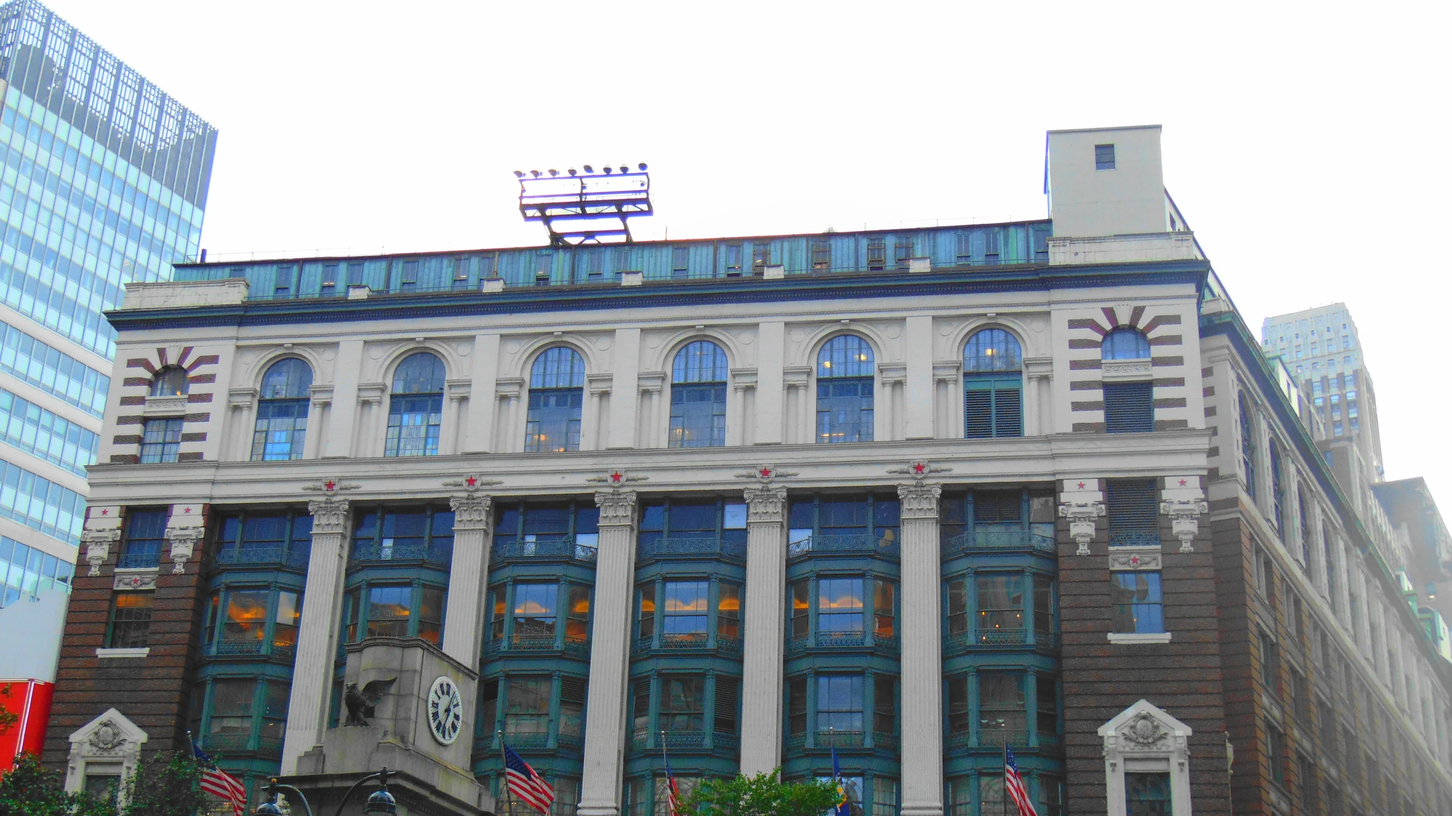
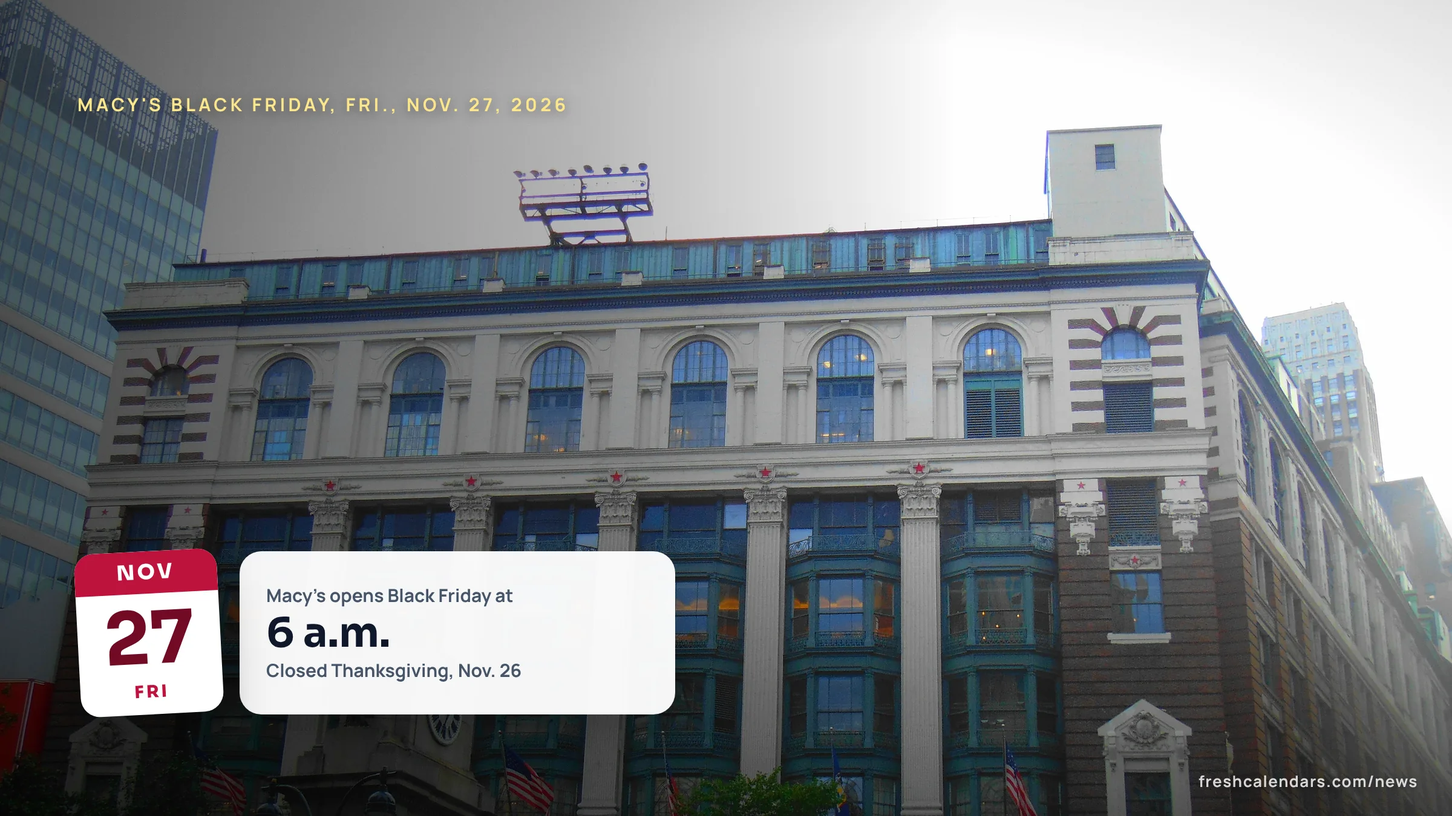
Black Friday and Cyber Monday update: interim
Claude-Session: https://claude.ai/code/session_01FjeiYS8veVExHHG2PytUqw

diff --git a/apps/news/src/content/articles/2026/11/macys-black-friday-2026-store-hours-sale-dates.md b/apps/news/src/content/articles/2026/11/macys-black-friday-2026-store-hours-sale-dates.md
@@ -1,0 +1,130 @@
+---
+title: "Macy's Black Friday 2026 Hours: Opens 6 a.m., Closed Thanksgiving"
+description: "Macy's stores are closed Thanksgiving, Nov. 26, and open 6 a.m. to 10 p.m. Black Friday, Nov. 27. Opening times by time zone and what is unconfirmed."
+type: news
+publishedAt: "2026-11-25T16:46:00-05:00"
+authors: [jessica-hartwell]
+category: retail-dates
+keywords: ["macy's black friday 2026 hours", "what time does macy's open black friday", "is macy's open on thanksgiving 2026", "macy's black friday 2026"]
+assets:
+  overlay: true
+  kicker: "Macy's Black Friday, Fri., Nov. 27, 2026"
+  date: "2026-11-27"
+  card: { top: "Macy's opens Black Friday at", big: "6 a.m.", bottom: "Closed Thanksgiving, Nov. 26" }
+  printable:
+    kit: fact-table
+    slug: macys-black-friday-2026-store-hours
+    group: macys-black-friday-2026
+    title: "Macy's Thanksgiving and Black Friday 2026 Hours"
+    subtitle: "Closed Thu., Nov. 26; open 6 a.m. to 10 p.m. local time Fri., Nov. 27"
+    note: "Source: TODAY.com, Macy's Thanksgiving and Black Friday Hours: What to Know for 2026, Nov. 25, 2026, quoting a Macy's spokesperson; Yahoo Shopping, Black Friday store hours 2026, updated Nov. 25, 2026. Hours may vary among stores."
+    description: "One-page list of Macy's Thanksgiving closure and Black Friday 2026 hours, with the opening times of other big chains for comparison."
+    alt: "Printable table of Macy's Thanksgiving and Black Friday 2026 store hours"
+    data:
+      columns:
+        - { key: "when", label: "Day and store" }
+        - { key: "hours", label: "Hours (local time)", align: "right" }
+      rows:
+        - { cells: { when: "Macy's, Thu., Nov. 26 (Thanksgiving)", hours: "Closed" }, src: 1, quote: "According to a Macy’s spokesperson, all Macy’s locations will be closed on Thursday, Nov. 26, in observance of the Thanksgiving holiday." }
+        - { cells: { when: "Macy's, Fri., Nov. 27 (opens)", hours: "6 a.m." }, src: 1, quote: "stores will reopen at 6 a.m. on Black Friday and remain open until 10 p.m." }
+        - { cells: { when: "Macy's, Fri., Nov. 27 (closes)", hours: "10 p.m." }, src: 1, quote: "stores will reopen at 6 a.m. on Black Friday and remain open until 10 p.m." }
+        - { cells: { when: "Kohl's and JCPenney, Fri., Nov. 27", hours: "5 a.m." }, src: 2, quote: "Kohl's and JCPenney open at 5 a.m. on Black Friday, Nov. 27." }
+        - { cells: { when: "Walmart, Target and Best Buy, Fri., Nov. 27", hours: "6 a.m." }, src: 2, quote: "Walmart, Target and Best Buy are all opening at 6 a.m." }
+      unconfirmed:
+        - { label: "Macy's Black Friday sale end date and Cyber Monday date", why: "Macy's pages blocked automated access on Nov. 25, 2026, and no newsroom we read gave them" }
+        - { label: "Hours at individual stores", why: "Both sources say hours may vary among stores" }
+hero:
+  src: ../../../../assets/news/macys-black-friday-2026-store-hours-sale-dates/macys-black-friday-2026-store-hours-sale-dates.webp
+  alt: "Macy's Herald Square flagship in Manhattan, for Macy's Black Friday 2026 hours"
+  caption: "File photo of the Macy's Herald Square flagship in Manhattan. Macy's told TODAY that all its stores close Thanksgiving and reopen at 6 a.m. Nov. 27."
+  credit: "Photo: JJBers / Wikimedia Commons, cropped"
+  license:
+    name: "CC BY-SA 4.0"
+    url: "https://creativecommons.org/licenses/by-sa/4.0"
+    source: "https://commons.wikimedia.org/wiki/File:Manhattan_-_Macy%27s_Herald_Square_-_20180808183834.jpg"
+    author: "JJBers"
+    authorUrl: "https://commons.wikimedia.org/wiki/User:JJBers"
+summary:
+  - "A Macy's spokesperson told TODAY.com on Nov. 25, 2026 that all Macy's stores are closed on Thursday, Nov. 26, for Thanksgiving."
+  - "Macy's stores reopen at 6 a.m. on Black Friday, Nov. 27, and stay open until 10 p.m., a 16-hour day; hours may vary among stores."
+  - "Because the hours are local, a 6 a.m. opening is 6 a.m. ET in New York, 7 a.m. ET in Chicago and 9 a.m. ET in Los Angeles, by our conversion."
+  - "Macy's Black Friday sale end date and Cyber Monday date could not be confirmed from a source we could read."
+faq:
+  - q: "What time does Macy's open on Black Friday 2026?"
+    a: "6 a.m. local time on Friday, Nov. 27, 2026, and it stays open until 10 p.m., a Macy's spokesperson told TODAY.com. Hours may vary among stores, so check the Macy's store directory."
+  - q: "Is Macy's open on Thanksgiving 2026?"
+    a: "No. A Macy's spokesperson told TODAY.com that all Macy's locations will be closed on Thursday, Nov. 26, in observance of Thanksgiving."
+  - q: "When does Macy's Black Friday sale end in 2026?"
+    a: "We could not confirm it. Macy's pages blocked automated access when we checked on Nov. 25, and the newsrooms we read gave store hours only. Check macys.com or the Macy's app."
+  - q: "When is Macy's Cyber Monday 2026?"
+    a: "Cyber Monday is Monday, Nov. 30, 2026. We could not confirm Macy's own Cyber Monday start date or offers from a source we could read."
+sources:
+  - title: "Macy's Thanksgiving and Black Friday Hours: What to Know for 2026"
+    url: "https://www.today.com/life/holidays/macys-thanksgiving-black-friday-hours-2026-rcna610048"
+    publisher: "TODAY.com (NBC News)"
+    date: "2026-11-25"
+  - title: "Black Friday store hours 2026: What time do Walmart, Target, Kohl's, Macy's, Best Buy, Costco open?"
+    url: "https://shopping.yahoo.com/deals/breaking-news/article/black-friday-store-hours-2026-what-time-do-walmart-target-kohls-macys-best-buy-costco-open-182611870.html"
+    publisher: "Yahoo Shopping"
+    date: "2026-11-25"
+internalLinks:
+  - href: "/november-calendars.html"
+    label: "November 2026 printable calendar"
+  - href: "/when-is/black-friday/"
+    label: "When is Black Friday?"
+  - href: "/when-is/thanksgiving/"
+    label: "When is Thanksgiving?"
+related: [black-friday-2026-store-hours-walmart-target-best-buy, when-does-black-friday-end-2026-sale-end-dates-by-store, macys-thanksgiving-day-parade-2026-start-time-route-tv-balloons]
+draft: false
+---
+
+**Macy's stores are closed on Thanksgiving, Thursday, Nov. 26, 2026, and reopen at 6 a.m. on Black Friday, Nov. 27, staying open until 10 p.m., a Macy's spokesperson told TODAY.com on Nov. 25.** Yahoo Shopping's store-hours roundup, updated the same day, lists the same Macy's hours: 6 a.m. to 10 p.m. Both say hours may vary among stores.
+
+That is 16 hours on Friday. It also means no Macy's store is open on the day of the Thanksgiving parade; the [Macy's Thanksgiving Day Parade guide](/news/macys-thanksgiving-day-parade-2026-start-time-route-tv-balloons/) has its start time, route and TV channels.
+
+## Macy's hours, Nov. 26 and 27
+
+| Day | Macy's hours | Source |
+|---|---|---|
+| Thu., Nov. 26 (Thanksgiving) | Closed, all locations | Macy's spokesperson to TODAY.com |
+| Fri., Nov. 27 (Black Friday) | 6 a.m. to 10 p.m. | Macy's spokesperson to TODAY.com; Yahoo Shopping |
+
+Macy's has not said when stores close on Thursday evening or whether any location differs. Because hours may vary among stores, confirm yours in the Macy's store directory before you drive.
+
+## Opening time by time zone
+
+Store hours are local, so the same 6 a.m. opening lands at different clock times across the country. If a store keeps the chain-wide 6 a.m. to 10 p.m. schedule, the opening and closing times look like this in Eastern Time (ET), by our conversion:
+
+| Store's time zone | Opens (local) | Opens (ET) | Closes (local) | Closes (ET) |
+|---|---|---|---|---|
+| Eastern (ET) | 6 a.m. | 6 a.m. | 10 p.m. | 10 p.m. |
+| Central (CT) | 6 a.m. | 7 a.m. | 10 p.m. | 11 p.m. |
+| Mountain (MT) | 6 a.m. | 8 a.m. | 10 p.m. | Midnight, Sat., Nov. 28 |
+| Pacific (PT) | 6 a.m. | 9 a.m. | 10 p.m. | 1 a.m., Sat., Nov. 28 |
+| Hawaii | 6 a.m. | 11 a.m. | 10 p.m. | 3 a.m., Sat., Nov. 28 |
+
+Use the local column to plan your trip. The ET column is for readers who follow Black Friday news on an Eastern clock.
+
+## How Macy's compares with other chains
+
+Yahoo Shopping's roundup, updated Nov. 25, shows where 6 a.m. sits in the Black Friday lineup:
+
+| Opens Black Friday | Stores |
+|---|---|
+| 5 a.m. | Kohl's, JCPenney |
+| 6 a.m. | Macy's, Walmart, Target, Best Buy, Dick's Sporting Goods |
+
+Yahoo lists Macy's closing time as 10 p.m., the same as Best Buy and Dick's at many stores. Our [Black Friday store hours guide](/news/black-friday-2026-store-hours-walmart-target-best-buy/) covers Walmart, Target, Best Buy and the rest in more detail.
+
+## What Macy's has not confirmed
+
+- **Sale end date.** We could not read Macy's own Black Friday pages: macys.com returned an access-denied page to an automated request on Nov. 25, and we did not work around it. The newsrooms above gave store hours only. Check macys.com or the Macy's app for when the sale ends; our [sale end dates by store](/news/when-does-black-friday-end-2026-sale-end-dates-by-store/) page lists the chains that have published them.
+- **Cyber Monday.** The calendar date is Monday, Nov. 30, 2026, but we have no Macy's start date or offer list from a source we could read.
+- **Doorbusters and giveaways.** Neither source lists in-store doorbusters or free gifts, so none are included here.
+- **Individual stores.** Both sources say hours may vary among stores.
+
+## Free printable
+
+The one-page printable lists the Thanksgiving closure, the Friday hours and the 5 a.m. and 6 a.m. openings of the other chains from the table above. Put it beside the [November 2026 printable calendar](/november-calendars.html) and mark Thursday, Nov. 26 and Friday, Nov. 27. For the date itself, see [when is Black Friday](/when-is/black-friday/) and [when is Thanksgiving](/when-is/thanksgiving/).
+
+Sources: TODAY.com, Nov. 25, 2026, quoting a Macy's spokesperson; Yahoo Shopping, updated Nov. 25, 2026.

diff --git a/apps/news/src/content/articles/2026/11/epic-games-store-black-friday-sale-2026-november-17-december-1.md b/apps/news/src/content/articles/2026/11/epic-games-store-black-friday-sale-2026-november-17-december-1.md
@@ -1,9 +1,9 @@
 ---
 title: "Epic Games Store Black Friday Sale 2026: Nov. 17 to Dec. 1"
-description: "Epic's Black Friday sale for Premium Editions runs Nov. 17 to Dec. 1. Also the Holiday Sale dates, the Nov. 19 free games and a printable sale calendar."
+description: "Epic's Black Friday sale for Premium Editions runs Nov. 17 to Dec. 1. Also the Holiday Sale dates, the free games and a printable sale calendar."
 type: news
 publishedAt: "2026-11-18T06:10:00-05:00"
-updatedAt: "2026-11-18T06:10:00-05:00"
+updatedAt: "2026-11-25T16:50:00-05:00"
 authors: [jessica-hartwell]
 category: gaming-tech
 keywords: ["epic games black friday sale 2026", "epic games store black friday 2026 end date", "epic games holiday sale 2026", "epic free games november 2026"]
@@ -18,8 +18,8 @@ assets:
     group: epic-games-store-2026
     title: "Epic Games Store Sale Calendar 2026"
     subtitle: "Black Friday sale, Epic Savings, free games and the Holiday Sale, Nov. 2026 to Jan. 2027"
-    note: "Source: Epic Games, 2026 Q4 Promotional Guide on the Unreal Engine forums (Aug. 24, 2026); free-game dates from Worthplaying and Clouddosage (Nov. 12, 2026). Epic gives no start or end hour in the guide."
-    description: "One-page Epic Games Store sale calendar for Nov. 2026 to Jan. 2027: Black Friday, Epic Savings, the Nov. 19 free games and the Holiday Sale, with weekdays."
+    note: "Source: Epic Games, 2026 Q4 Promotional Guide on the Unreal Engine forums (Aug. 24, 2026); free-game dates from Player.One and GamerGuru. Epic gives no start or end hour in the guide."
+    description: "One-page Epic Games Store sale calendar for Nov. 2026 to Jan. 2027: Black Friday, Epic Savings, the free games and the Holiday Sale, with weekdays."
     alt: "Printable Epic Games Store sale calendar 2026 listing the Black Friday sale, Epic Savings, free games and the Holiday Sale by date"
     data:
       pick: false
@@ -27,8 +27,9 @@ assets:
       events:
         - { date: "2026-11-12", time: "TBA", title: "Epic Savings: Nov starts", detail: "Runs to Nov. 26, 14 days", airing: live, src: 1, quote: "November 12 - 26 | 14 Days" }
         - { date: "2026-11-17", time: "TBA", title: "Black Friday: Premium Editions Sale starts", detail: "Runs to Dec. 1, 14 days", airing: live, src: 1, quote: "November 17 - December 1 | 14 Days" }
-        - { date: "2026-11-19", time: "TBA", title: "Free games change", detail: "Alien: Isolation and Mark of the Deep free to Nov. 26", airing: live, src: 5, quote: "gratis starting November 19 until November 26, 2026" }
-        - { date: "2026-11-26", time: "TBA", title: "Epic Savings: Nov ends", detail: "Free games change again, next pair not announced", airing: live, src: 1, quote: "November 12 - 26 | 14 Days" }
+        - { date: "2026-11-19", time: "TBA", title: "Free game: Mark of the Deep", detail: "Free to Nov. 26 at 8 a.m. PT", airing: live, src: 8, quote: "began on November 19 and runs until November 26 at 8 AM Pacific Time" }
+        - { date: "2026-11-26", time: "TBA", title: "Epic Savings: Nov ends", detail: "Runs from Nov. 12, 14 days", airing: live, src: 1, quote: "November 12 - 26 | 14 Days" }
+        - { date: "2026-11-26", time: "TBA", title: "New free games start", detail: "Bread & Fred, Firestone bundle, to Dec. 3", airing: live, src: 9, quote: "from Thursday 26 November 2026 at 4pm GMT / 8am PT until Thursday 3 December" }
         - { date: "2026-12-01", time: "TBA", title: "Black Friday sale last day", detail: "Premium Editions Sale ends", airing: live, src: 1, quote: "November 17 - December 1 | 14 Days" }
         - { date: "2026-12-10", time: "TBA", title: "Holiday Sale starts", detail: "Base games and add-ons, runs to Jan. 7", airing: live, src: 1, quote: "December 10 - January 7 | 28 Days" }
         - { date: "2027-01-07", time: "TBA", title: "Holiday Sale ends", detail: "Last day of Epic's Q4 promotions", airing: live, src: 1, quote: "December 10 - January 7 | 28 Days" }
@@ -52,7 +53,7 @@ hero:
 summary:
   - "Epic Games' fourth-quarter promotion guide lists the Epic Games Store Black Friday sale from Nov. 17 to Dec. 1, 2026, a sale \"focused exclusively on Premium Editions\"."
   - "Epic's guide lists the Holiday Sale from Dec. 10, 2026, to Jan. 7, 2027, so no sale is listed for Dec. 2 to Dec. 9."
-  - "Alien: Isolation and Mark of the Deep are reported free from Nov. 19 to Nov. 26, 2026; the games after that are not yet announced."
+  - "Mark of the Deep is free from Nov. 19 to Nov. 26, 2026 at 8 a.m. PT; Alien: Isolation was listed but pulled. Bread & Fred and a Firestone bundle follow, free to Dec. 3."
   - "The guide gives no start or end hour, and Epic has not announced a 2026 coupon rate."
 faq:
   - q: "What time does the Epic Games Store Black Friday sale start on Nov. 17?"
@@ -60,14 +61,14 @@ faq:
   - q: "Is there an Epic Coupon in the 2026 Black Friday sale?"
     a: "Not announced. No 2026 coupon or Epic Rewards rate appears in the guide or in the reports we checked."
   - q: "Will Epic give away mystery games in December 2026?"
-    a: "Epic has not announced any. The only free games with reported dates are Alien: Isolation and Mark of the Deep, Nov. 19 to Nov. 26."
+    a: "Epic has not announced any. Player.One and GamerGuru report Mark of the Deep free until Nov. 26 at 8 a.m. PT, then Bread & Fred and a Firestone bundle from Nov. 26 to Dec. 3."
   - q: "Does the Black Friday sale include every game?"
     a: "Epic's guide says the sale is focused exclusively on Premium Editions, such as Deluxe, Gold, Premium or similar versions. The Holiday Sale covers base games and downloadable content (DLC)."
 sources:
   - title: "2026 Q4 Promotional Guide || EGS Promotions"
     url: "https://forums.unrealengine.com/t/2026-q4-promotional-guide-egs-promotions/2746185"
     publisher: "Epic Games (Unreal Engine forums)"
-    date: "2026-08-24"
+    date: "2026-11-25"
   - title: "Black Friday gaming deals 2026"
     url: "https://games.gg/news/black-friday-gaming-deals-2026/"
     publisher: "games.gg"
@@ -92,6 +93,14 @@ sources:
     url: "https://partner.steamgames.com/doc/marketing/upcoming_events"
     publisher: "Valve (Steamworks Documentation)"
     date: "2026-11-14"
+  - title: "Epic Games Reveals New Free Game This Week, Teases 2 More for Next Week: 'Mark of the Deep' and More"
+    url: "https://www.player.one/epic-games-reveals-new-free-game-this-week-teases-2-more-next-week-mark-deep-more-164549"
+    publisher: "Player.One"
+    date: "2026-11-25"
+  - title: "Epic free games for 26 November-3 December 2026"
+    url: "https://gamerguru.net/pc-games/epic-games-store-free-games"
+    publisher: "GamerGuru"
+    date: "2026-11-25"
 internalLinks:
   - href: "/november-calendars.html"
     label: "November 2026 printable calendar"
@@ -128,9 +137,11 @@ The guide's lengths are the gaps between the dates. The Black Friday sale spans 
 
 Yes, on Epic's schedule. The Black Friday sale ends Tue., Dec. 1 and the Holiday Sale starts Thu., Dec. 10, so the guide lists no sale from Wed., Dec. 2 to Wed., Dec. 9, which is 8 days. The Epic Savings: Nov promotion and the Black Friday sale overlap from Nov. 17 to Nov. 26, 10 days. The guide does not say how the two interact on a given game.
 
-## What are the Epic free games for Nov. 19, 2026?
+## What are the Epic free games for Nov. 19 and Nov. 26, 2026?
 
-Worthplaying and Clouddosage, both on Nov. 12, 2026, report Alien: Isolation and Mark of the Deep free from Nov. 19 to Nov. 26, 2026. Worthplaying wrote "gratis starting November 19 until November 26, 2026." The free games after Nov. 26 are not yet announced. Epic has also not announced mystery free games for December, and no dates are given here.
+Worthplaying and Clouddosage listed Alien: Isolation and Mark of the Deep as the free games for Nov. 19 to Nov. 26, 2026. Player.One and GamerGuru report that Alien: Isolation was pulled and shows a paid price, so Mark of the Deep is the only free PC game that week. Player.One wrote that the round "began on November 19 and runs until November 26 at 8 AM Pacific Time."
+
+Next come Bread & Fred and a Firestone bundle, free from Thursday, Nov. 26 at 8 a.m. PT to Thursday, Dec. 3, according to Player.One and GamerGuru. Firestone is an in-game bundle for players who log in through Epic. Epic has not announced mystery free games for December, and no dates are given here.
 
 ## How does the Epic sale compare with Steam, Xbox and PlayStation?
 
@@ -151,7 +162,7 @@ Epic has not announced a 2026 coupon or Epic Rewards rate, the Holiday Sale hour
 
 ## Print the Epic Games Store sale calendar
 
-The printable lists seven dates on one US Letter page: the Epic Savings and Black Friday starts, the Nov. 19 free games, the Nov. 26 end of Epic Savings, the Dec. 1 last day, and the Dec. 10 and Jan. 7 Holiday Sale dates, with lines for games to buy. Pair it with our [November 2026 printable calendar](/november-calendars.html) and [December 2026 printable calendar](/december-calendars.html).
+The printable lists eight dates on one US Letter page: the Epic Savings and Black Friday starts, the Mark of the Deep free game from Nov. 19, the Nov. 26 end of Epic Savings, the Nov. 26 start of the Bread & Fred and Firestone offers, the Dec. 1 last day, and the Dec. 10 and Jan. 7 Holiday Sale dates, with lines for games to buy. Pair it with our [November 2026 printable calendar](/november-calendars.html) and [December 2026 printable calendar](/december-calendars.html).
 
 ## Where the Epic sale dates come from
 

diff --git a/apps/news/src/content/articles/2026/10/black-friday-2026-uk-date-27-november-amazon-uk-sale-dates.md b/apps/news/src/content/articles/2026/10/black-friday-2026-uk-date-27-november-amazon-uk-sale-dates.md
@@ -4,7 +4,7 @@ description: "Black Friday 2026 UK is Friday, 27 November. Amazon UK's Black Fri
 type: news
 dateline: "London"
 publishedAt: "2026-10-28T03:43:00-04:00"
-updatedAt: "2026-11-19T01:42:00-05:00"
+updatedAt: "2026-11-25T16:50:00-05:00"
 authors: [jessica-hartwell]
 category: retail-dates
 keywords: ["when is Black Friday 2026 UK", "Black Friday 2026 UK date", "Amazon Black Friday 2026 UK", "Cyber Monday 2026 UK"]
@@ -21,14 +21,14 @@ hero:
     authorUrl: "https://www.geograph.org.uk/profile/43806"
 summary:
   - "Black Friday 2026 is Friday, 27 November in the UK, the day after US Thanksgiving (Thursday, 26 November). Cyber Monday is Monday, 30 November."
-  - "Amazon UK says its Black Friday Week runs 19-30 November 2026, 12 days counting both ends, starting today, Thursday, 19 November; Amazon Devices deals started 16 November. Argos, Currys, John Lewis, Very, Boots, Tesco, Asda and M&S had not announced 2026 dates as of 12 November 2026."
+  - "Amazon UK says its Black Friday Week runs 19-30 November 2026, 12 days counting both ends, which started on Thursday, 19 November. Argos, Currys, John Lewis, Very, Boots, Tesco, Asda and M&S had not announced 2026 dates as of 12 November 2026."
   - "Amazon UK started Black Friday Week on Thursday, 21 November in 2024 and Thursday, 20 November in 2025, and announced the dates on 8 and 13 November. In 2026 the announcement came on 10 November."
   - "UK law gives a 14-day cancellation period for online orders from the day goods arrive: an item delivered on Saturday, 28 November can be cancelled until Saturday, 12 December."
 faq:
   - q: "When is Black Friday 2026 in the UK?"
     a: "Friday, 27 November 2026. It is the day after US Thanksgiving, which is Thursday, 26 November. Cyber Monday is Monday, 30 November."
   - q: "When does Amazon UK Black Friday 2026 start?"
-    a: "Today, Thursday, 19 November 2026. Amazon UK says Black Friday Week runs 19-30 November, and the page was updated on 10 November 2026. Amazon Devices deals started earlier, on 16 November. In 2025 the week ran from 20 November until 1 December."
+    a: "Thursday, 19 November 2026. Amazon UK says Black Friday Week runs 19-30 November, and its guide was updated on 19 November 2026. In 2025 the week ran from 20 November until 1 December."
   - q: "How long do you have to cancel an online order in the UK?"
     a: "The Consumer Contracts Regulations 2013 give 14 days. For goods bought online the period ends 14 days after the day the goods come into your possession."
   - q: "Have UK stores announced Christmas return extensions for 2026?"
@@ -37,7 +37,7 @@ sources:
   - title: "Amazon's Black Friday Week: Here's everything you need to know about Black Friday and Cyber Monday 2026"
     url: "https://www.aboutamazon.co.uk/news/retail/black-friday-everything-you-need-to-know"
     publisher: "Amazon UK"
-    date: "2026-11-10"
+    date: "2026-11-25"
   - title: "How do I cancel an online order?"
     url: "https://www.which.co.uk/consumer-rights/advice/how-do-i-cancel-an-online-order"
     publisher: "Which?"
@@ -84,25 +84,21 @@ assets:
       target: { date: "2026-11-30", label: "Cyber Monday" }
       columns: ["Amazon UK"]
       rows:
-        - { date: "2026-11-16", cells: { "Amazon UK": "Amazon Devices deals started" }, src: 1, quote: "From 16 November, enjoy savings on a selection of Amazon Devices, including Echo, Fire TV Stick, Ember smart TVs, Kindle, Ring and Blink, with Amazon Alexa Tablets from 18 November." }
-        - { date: "2026-11-18", cells: { "Amazon UK": "Alexa Tablets deals started" }, src: 1, quote: "From 16 November, enjoy savings on a selection of Amazon Devices, including Echo, Fire TV Stick, Ember smart TVs, Kindle, Ring and Blink, with Amazon Alexa Tablets from 18 November." }
-        - { date: "2026-11-19", cells: { "Amazon UK": "Black Friday Week starts" }, src: 1, quote: "Amazon's UK Black Friday Week is returning from 19–30 November" }
+        - { date: "2026-11-19", cells: { "Amazon UK": "Black Friday Week started" }, src: 1, quote: "Amazon’s UK Black Friday Week 2026 returns from 19–30 November" }
         - { date: "2026-11-27", cells: { "Amazon UK": "Black Friday" }, src: 1 }
-        - { date: "2026-11-30", cells: { "Amazon UK": "Black Friday Week ends" }, src: 1, quote: "Amazon's UK Black Friday Week is returning from 19–30 November" }
+        - { date: "2026-11-30", cells: { "Amazon UK": "Black Friday Week ends" }, src: 1, quote: "Amazon’s UK Black Friday Week 2026 returns from 19–30 November" }
       unconfirmed:
         - { label: "Argos, Currys, John Lewis, Very, Boots, Tesco, Asda and M&S dates", why: "Not announced as of 12 November 2026" }
-    note: "Source: Amazon UK (aboutamazon.co.uk, 10 Nov 2026)."
+    note: "Source: Amazon UK (aboutamazon.co.uk, 19 Nov 2026)."
     description: "One-page Black Friday 2026 UK planner with the Amazon UK Black Friday Week dates, Black Friday and Cyber Monday."
     alt: "Printable Black Friday 2026 UK shopping planner with Amazon UK sale dates"
 ---
 
-<p class="callout"><b>Checked 12 November 2026.</b> Amazon UK has confirmed its dates. We will add other retailers when they announce 2026 dates.</p>
-
-**Black Friday 2026 is Friday, 27 November 2026 in the United Kingdom (UK), the day after United States (US) Thanksgiving (Thursday, 26 November), and Cyber Monday is Monday, 30 November; Amazon UK says its Black Friday Week runs 19-30 November 2026, starting today, Thursday, 19 November.** Its Black Friday guide, updated on 10 November 2026, says: "Amazon's UK Black Friday Week is returning from 19–30 November." For the plain date answer, see [when Black Friday falls](/when-is/black-friday/). A free [UK shopping planner](#downloads) is below.
+**Black Friday 2026 is Friday, 27 November 2026 in the United Kingdom (UK), the day after United States (US) Thanksgiving (Thursday, 26 November), and Cyber Monday is Monday, 30 November; Amazon UK says its Black Friday Week runs 19-30 November 2026, which started on Thursday, 19 November.** Its Black Friday guide, updated on 19 November 2026, says: "Amazon’s UK Black Friday Week 2026 returns from 19–30 November." For the plain date answer, see [when Black Friday falls](/when-is/black-friday/). A free [UK shopping planner](#downloads) is below.
 
 ## When does Amazon UK Black Friday 2026 start?
 
-Today, Thursday, 19 November 2026, and it runs until Monday, 30 November: 12 days counting both ends (our computation). Amazon UK says its Black Friday Week "is returning from 19–30 November". Amazon Devices deals started earlier: "From 16 November, enjoy savings on a selection of Amazon Devices, including Echo, Fire TV Stick, Ember smart TVs, Kindle, Ring and Blink, with Amazon Alexa Tablets from 18 November." The UK page gives no start or end clock times, so none are listed here.
+Thursday, 19 November 2026, and it runs until Monday, 30 November: 12 days counting both ends (our computation). Amazon UK says its Black Friday Week "returns from 19–30 November". The UK page gives no start or end clock times, so none are listed here.
 
 Argos, Currys, John Lewis, Very, Boots, Tesco, Asda and M&S had not announced 2026 Black Friday dates as of 12 November 2026, and none had announced a 2026 Christmas return extension. We will update this page as they do.
 
@@ -128,12 +124,10 @@ Yes. In 2024 and 2025 Amazon UK began Black Friday Week on the Thursday eight da
 
 | Date | What | Status |
 |---|---|---|
-| Mon. 16 Nov 2026 | Amazon Devices deals started (Echo, Fire TV Stick, Kindle, Ring, Blink) | Amazon UK, 10 Nov 2026 |
-| Wed. 18 Nov 2026 | Amazon Alexa Tablets deals started | Amazon UK, 10 Nov 2026 |
-| Thu. 19 Nov 2026 | Amazon UK Black Friday Week starts today | Amazon UK, 10 Nov 2026 |
+| Thu. 19 Nov 2026 | Amazon UK Black Friday Week started | Amazon UK, 19 Nov 2026 |
 | Fri. 27 Nov 2026 | Black Friday | Fixed by the calendar |
 | Sat. 28 Nov 2026 | Example: an item delivered this day | Cancel until Sat. 12 Dec |
-| Mon. 30 Nov 2026 | Cyber Monday and last day of Amazon UK Black Friday Week | Amazon UK, 10 Nov 2026 |
+| Mon. 30 Nov 2026 | Cyber Monday and last day of Amazon UK Black Friday Week | Amazon UK, 19 Nov 2026 |
 
 The [November 2026 printable calendar](/november-calendars.html) shows the whole month. Retailers beyond Amazon are listed above as not yet announced as of 12 November 2026; for the US, see our [Black Friday 2026 ad tracker for Walmart, Target and Best Buy](/news/black-friday-2026-ad-tracker-walmart-target-best-buy/). Another big shopping date in the same month is covered in [Singles Day on 11 November](/news/singles-day-2026-november-11-11-11-sale-dates/).
 

diff --git a/apps/news/src/content/articles/2026/11/dicks-sporting-goods-black-friday-2026-deals-november-22-hours.md b/apps/news/src/content/articles/2026/11/dicks-sporting-goods-black-friday-2026-deals-november-22-hours.md
@@ -2,6 +2,7 @@
 title: "Dick's Black Friday 2026: Deals Nov. 22-Dec. 5, Doors at 6 a.m."
 description: "Dick's Black Friday 2026 deals run Nov. 22 to Dec. 5; doors open 6 a.m. Nov. 27. Day-by-day timeline, Golf Galaxy hours, 2025 comparison, printable."
 type: news
+updatedAt: "2026-11-25T16:50:00-05:00"
 publishedAt: "2026-11-14T20:45:00-05:00"
 authors: [jessica-hartwell]
 category: retail-dates
@@ -29,7 +30,7 @@ assets:
         - { name: "Golf Galaxy, Black Friday", status: limited, detail: "Open 7 a.m. to 8 p.m. local time", src: 3, quote: "Stores will open on Black Friday at 7 a.m. and close at 8 p.m. local time." }
         - { name: "dicks.com and app", status: open, detail: "Shop 24/7, including Thanksgiving Day", src: 1, quote: "Athletes can shop 24/7 at DICKS.com" }
       tasks:
-        - { daysBefore: 4, task: "Sale starts Sun., Nov. 22: browse deals online" }
+        - { daysBefore: 4, task: "Sale began Sunday, Nov. 22 and ends Saturday, Dec. 5" }
         - { daysBefore: 1, task: "Check your store page for Black Friday hours" }
         - { daysBefore: 0, task: "Thanksgiving: stores closed; Black Friday doors open at 6 a.m." }
       fill: ["Deals I want", "Store hours I checked", "Price match receipts"]
@@ -46,7 +47,7 @@ hero:
     source: "https://commons.wikimedia.org/wiki/File:Flight_Club_Wall_of_Shoes_New_York_City_2011.jpg"
     author: "Jaysin Trevino"
 summary:
-  - "Dick's Sporting Goods says its 2026 holiday deals are valid Nov. 22 to Dec. 5, a 14-day run that starts five days before Black Friday."
+  - "Dick's Sporting Goods says its 2026 holiday deals are valid Nov. 22 to Dec. 5, a 14-day run that began five days before Black Friday."
   - "All Dick's locations are closed on Thanksgiving Day, Nov. 26, and doors open on Black Friday, Nov. 27, at 6 a.m. local time; the closing time is not announced."
   - "Golf Galaxy stores open at 7 a.m. and close at 8 p.m. on Black Friday, with a first-ever Pick a Tag. Win Some Swag. giveaway for the first 30 participants."
   - "Dick's Deal Days run Dec. 6 to 11 on dicks.com and the app, for ScoreCard loyalty members and app users."
@@ -65,7 +66,7 @@ sources:
   - title: "DICK'S Sporting Goods Announces 2026 Holiday Deals, Gift Shop and Black Friday Hours"
     url: "https://www.prnewswire.com/news-releases/dicks-sporting-goods-announces-2026-holiday-deals-gift-shop-and-black-friday-hours-302934896.html"
     publisher: "DICK'S Sporting Goods via PR Newswire"
-    date: "2026-11-10"
+    date: "2026-11-25"
   - title: "DICK'S Sporting Goods, Inc. to Hire Over 11,000 Seasonal Teammates for the 2026 Holiday Shopping Season"
     url: "https://www.prnewswire.com/news-releases/dicks-sporting-goods-inc-to-hire-over-11-000-seasonal-teammates-for-the-2026-holiday-shopping-season-302908795.html"
     publisher: "DICK'S Sporting Goods via PR Newswire"
@@ -73,7 +74,7 @@ sources:
   - title: "Golf Galaxy Kicks Off Black Friday with First-Ever Pick a Tag. Win Some Swag. Giveaway Event"
     url: "https://www.prnewswire.com/news-releases/golf-galaxy-kicks-off-black-friday-with-first-ever-pick-a-tag-win-some-swag-giveaway-event-302934953.html"
     publisher: "Golf Galaxy via PR Newswire"
-    date: "2026-11-10"
+    date: "2026-11-25"
   - title: "DICK'S Sporting Goods Announces 2025 Holiday Deals, Gift Guide and Black Friday Hours"
     url: "https://www.prnewswire.com/news-releases/dicks-sporting-goods-announces-2025-holiday-deals-gift-guide-and-black-friday-hours-302614586.html"
     publisher: "DICK'S Sporting Goods via PR Newswire"
@@ -104,7 +105,7 @@ draft: false
 
 | Date | Day | What Dick's and Golf Galaxy published |
 |---|---|---|
-| Nov. 22, 2026 | Sunday | Holiday deals begin |
+| Nov. 22, 2026 | Sunday | Holiday deals began |
 | Nov. 26, 2026 | Thursday | Thanksgiving: all Dick's stores closed; dicks.com open |
 | Nov. 27, 2026 | Friday | Black Friday: Dick's doors open at 6 a.m. local time; Golf Galaxy open 7 a.m. to 8 p.m. with the giveaway |
 | Nov. 30, 2026 | Monday | Cyber Monday: the Nov. 22 to Dec. 5 deals are still valid |
@@ -161,7 +162,7 @@ Dick's Nov. 13, 2025 release is the source for last year's column.
 | Black Friday closing | 10:00 p.m. | Not announced |
 | Deal Days | Sun., Dec. 7 to Wed., Dec. 10 (4 days) | Sun., Dec. 6 to Fri., Dec. 11 (6 days) |
 
-The 2026 sale is eight days longer and begins five days before Black Friday. The 2025 closing time is last year's, not a prediction for Nov. 27. For other chains, see the [Black Friday 2026 store hours guide](/news/black-friday-2026-store-hours-walmart-target-best-buy/), the [ad tracker](/news/black-friday-2026-ad-tracker-walmart-target-best-buy/) and the [Cyber Monday 2026 sale times](/news/cyber-monday-2026-date-sale-start-times-by-store/).
+The 2026 sale is eight days longer and began five days before Black Friday. The 2025 closing time is last year's, not a prediction for Nov. 27. For other chains, see the [Black Friday 2026 store hours guide](/news/black-friday-2026-store-hours-walmart-target-best-buy/), the [ad tracker](/news/black-friday-2026-ad-tracker-walmart-target-best-buy/) and the [Cyber Monday 2026 sale times](/news/cyber-monday-2026-date-sale-start-times-by-store/).
 
 ## What has Dick's not announced?
 
